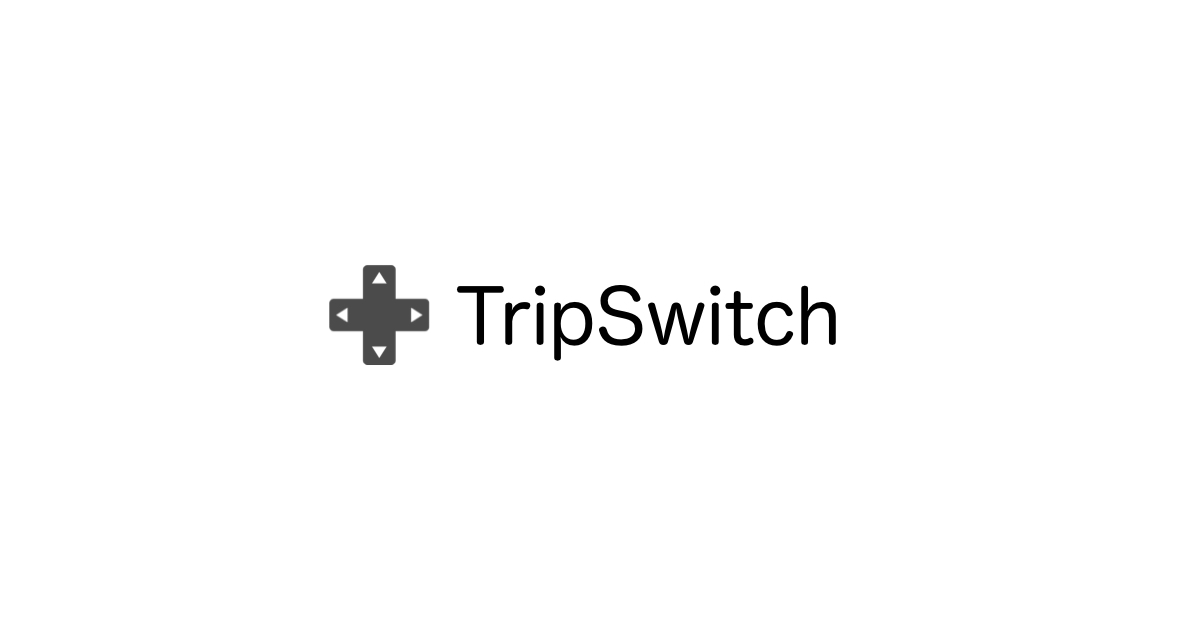
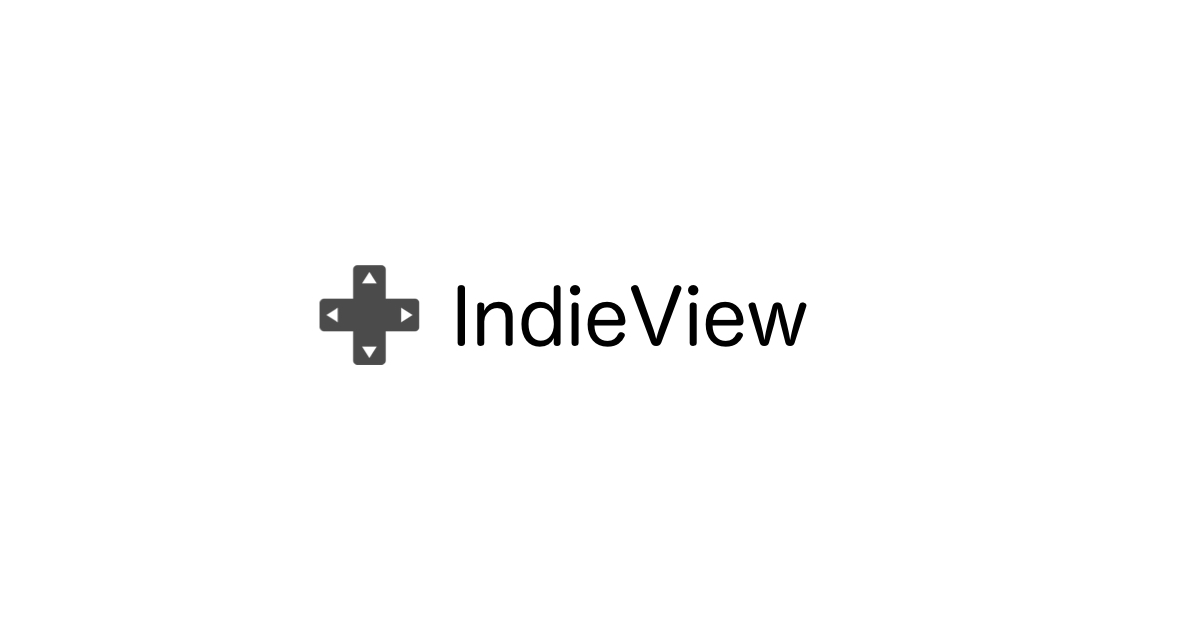
アプリネーム修正

Changed region(s): [[0.2467, 0.4222, 0.7092, 0.573]]

diff --git a/laravel/resources/views/layouts/app.blade.php b/laravel/resources/views/layouts/app.blade.php
@@ -7,15 +7,15 @@
     <!-- CSRF Token -->
     <meta name="csrf-token" content="{{ csrf_token() }}">
 
-    <title>{{ config('app.name', 'TripSwitch') }}</title>
+    <title>{{ config('app.name', 'IndieView') }}</title>
 
     <!-- OGP -->
-    <meta name="description"         content="NintendoSwitchで手に入るインディーズゲームの景色を投稿するサイト">
-    <meta property="og:title"        content="NintendoSwitchで旅を">
-    <meta property="og:description"  content="NintendoSwitchで手に入るインディーズゲームの景色を投稿するサイト">
+    <meta name="description"         content="インディーズゲームにはハイクオリティながらも気軽に手が出せる価格帯のゲームが数多くあります。IndieViewはそのようなゲームが織り成す景色とともに紹介し、情報共有するサイトです。">
+    <meta property="og:title"        content="インディーズゲームで最高の景色を">
+    <meta property="og:description"  content="インディーズゲームにはハイクオリティながらも気軽に手が出せる価格帯のゲームが数多くあります。IndieViewはそのようなゲームが織り成す景色とともに紹介し、情報共有するサイトです。">
     <meta property="og:type"         content="website">
-    <meta property="og:site_name"    content="TripSwitch">
-    <meta property="og:url"          content="https://trip-switch.herokuapp.com">
+    <meta property="og:site_name"    content="IndieView">
+    <meta property="og:url"          content="https://indie-view.herokuapp.com">
     <meta property="og:image"        content="{{ secure_asset('images/opg.jpeg') }}">
     <meta property="og:image:width"  content="1200">
     <meta property="og:image:height" content="630">

diff --git a/laravel/app/Providers/AuthServiceProvider.php b/laravel/app/Providers/AuthServiceProvider.php
@@ -15,7 +15,6 @@ class AuthServiceProvider extends ServiceProvider
      * @var array
      */
     protected $policies = [
-        // 'App\Model' => 'App\Policies\ModelPolicy',
         Article::class => ArticlePolicy::class,
     ];
 
